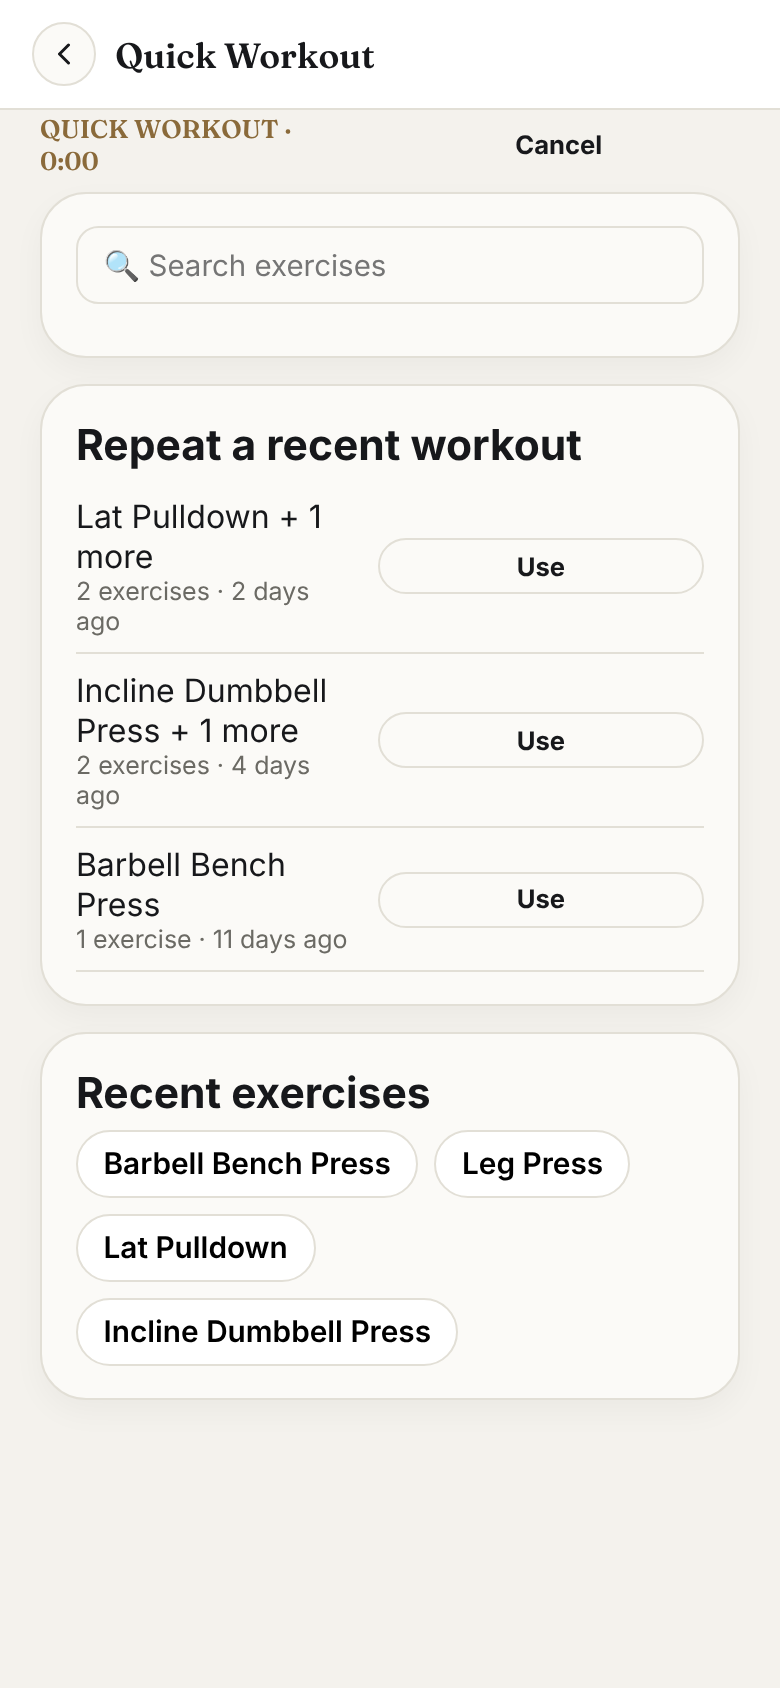
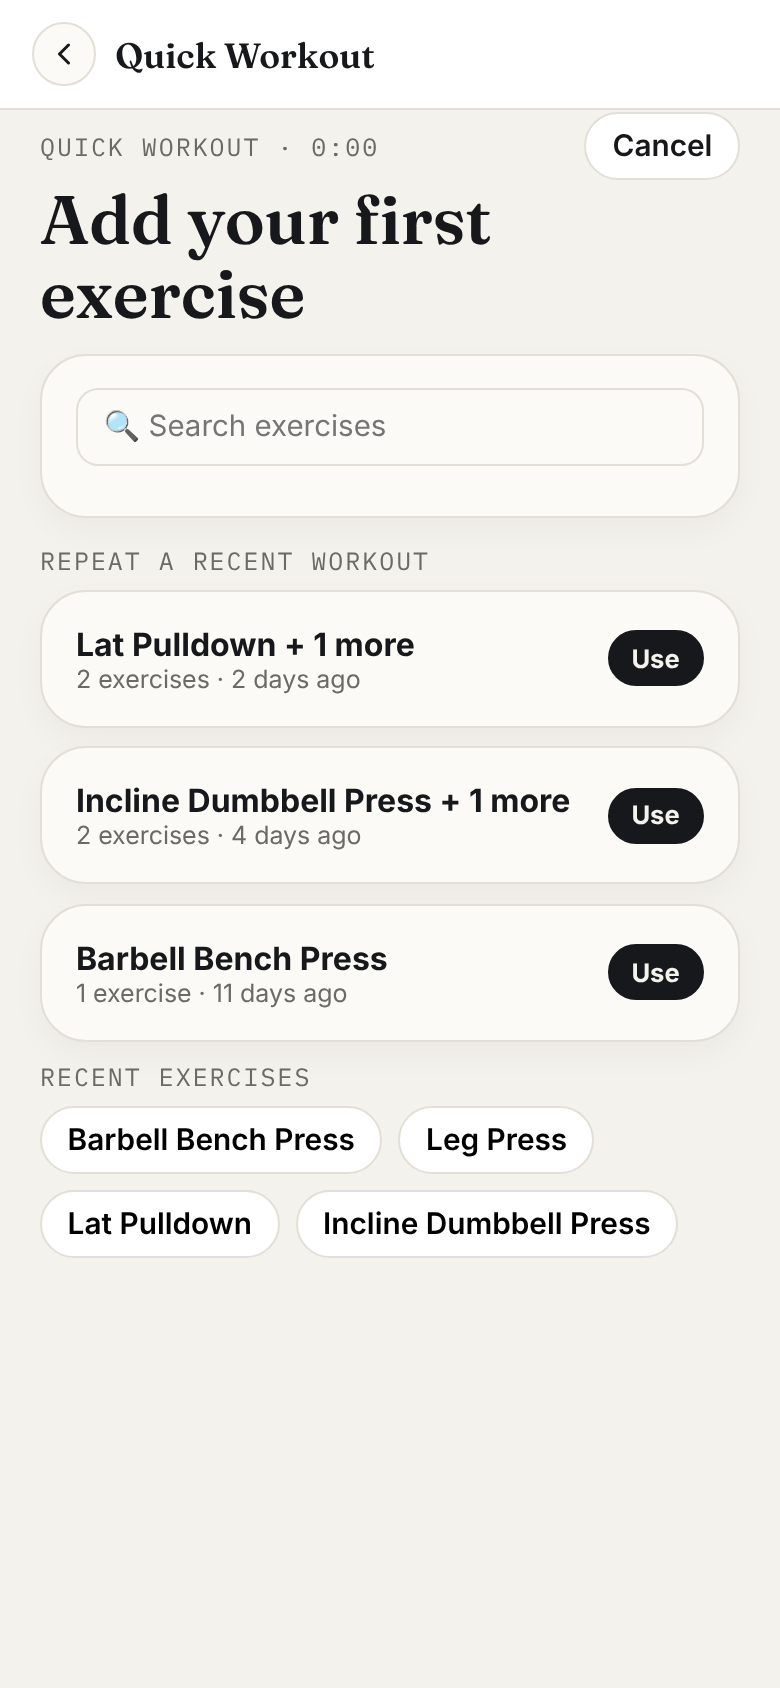
Fidelity pass: Section 3 (Workout) - quick-workout picker, overview, and in-session restyle to match the mockup
Quick-workout "add your first exercise" picker: mono caps header, serif
pagetitle, "Repeat a recent workout" rows as individual cards (was one
bordered-divider card) with a filled Use button, matching the mockup's
list convention already established for Plans in the prior commit.

Workout overview ("Today's workout"): same individual-card treatment
per Done/Up-next/Later row plus a real progress bar (done/total
exercises), and the Up-next row gets a 2px border to stand out, as in
the mockup. Added the mockup's "you can save this as a workout to
reuse, optional" banner (text only - the actual save/name/persist flow
remains a real gap, not attempted here).

Claude-Session: https://claude.ai/code/session_015L9cyNh1v2vMK9ZcFbmR4a

diff --git a/index.html b/index.html
@@ -9988,10 +9988,11 @@ function exercisePickerResultsHtml(query, actionAttr, actionLabel = '+') {
 
 function renderQuickWorkoutStart(panel) {
   panel.innerHTML = `
-    <div class="row" style="justify-content:space-between;align-items:center;margin-bottom:0.5rem;">
-      <div class="display" style="text-transform:uppercase;color:var(--accent);font-size:0.8rem;">Quick workout &middot; ${esc(liveWorkoutElapsedLabel())}</div>
-      <button class="btn btn-sm btn-ghost" id="qwCancelBtn">Cancel</button>
+    <div class="row" style="justify-content:space-between;align-items:center;flex-wrap:nowrap;">
+      <div class="mono small" style="text-transform:uppercase;letter-spacing:0.08em;color:var(--text-dim);min-width:0;">Quick workout &middot; ${esc(liveWorkoutElapsedLabel())}</div>
+      <span class="chip" id="qwCancelBtn" style="cursor:pointer;flex:none;min-width:0;">Cancel</span>
     </div>
+    <div class="pagetitle" style="margin:0.1rem 0 0.6rem;">Add your first exercise</div>
     <div class="card">
       <input class="input" id="qwSearch" placeholder="&#128269; Search exercises" value="${esc(quickWorkoutSearch)}">
       <div id="qwResultsArea" style="margin-top:0.6rem;"></div>
@@ -10012,19 +10013,17 @@ function renderQwSearchResults(panel) {
   if (resultsEl) resultsEl.innerHTML = q ? exercisePickerResultsHtml(q, 'data-qw-add') : '';
   const recentEl = $('#qwRecentArea', panel);
   if (recentEl) recentEl.innerHTML = !q ? `
-    <div class="card">
-      <h3 style="margin-top:0;">Repeat a recent workout</h3>
-      ${recentWorkoutDays().map((d) => `
-        <div class="row" style="justify-content:space-between;align-items:center;padding:0.5rem 0;border-bottom:1px solid var(--border);">
-          <div><div>${esc(d.exercises[0])}${d.exercises.length > 1 ? ` + ${d.exercises.length - 1} more` : ''}</div><div class="muted small">${d.exercises.length} exercise${d.exercises.length === 1 ? '' : 's'} &middot; ${d.daysAgo} day${d.daysAgo === 1 ? '' : 's'} ago</div></div>
-          <button class="btn btn-sm" data-qw-repeat="${esc(d.date)}">Use</button>
-        </div>`).join('') || `<p class="muted small">No past workouts yet.</p>`}
-    </div>
-    <div class="card">
-      <h3 style="margin-top:0;">Recent exercises</h3>
-      <div class="chip-row">
-        ${recentExerciseNames().map((n) => `<button class="chip" data-qw-add="${esc(n)}">${esc(n)}</button>`).join('') || `<p class="muted small">Nothing logged yet.</p>`}
-      </div>
+    <div class="mono small" style="text-transform:uppercase;letter-spacing:0.08em;color:var(--text-dim);margin:0.6rem 0 0.4rem;">Repeat a recent workout</div>
+    ${recentWorkoutDays().map((d) => `
+      <div class="card" style="margin-bottom:0.6rem;">
+        <div class="row" style="justify-content:space-between;align-items:center;flex-wrap:nowrap;">
+          <div style="min-width:0;"><strong>${esc(d.exercises[0])}${d.exercises.length > 1 ? ` + ${d.exercises.length - 1} more` : ''}</strong><div class="muted small">${d.exercises.length} exercise${d.exercises.length === 1 ? '' : 's'} &middot; ${d.daysAgo} day${d.daysAgo === 1 ? '' : 's'} ago</div></div>
+          <button class="btn btn-sm" style="flex:none;min-width:0;background:var(--text);color:var(--bg);border-color:var(--text);" data-qw-repeat="${esc(d.date)}">Use</button>
+        </div>
+      </div>`).join('') || `<p class="muted small">No past workouts yet.</p>`}
+    <div class="mono small" style="text-transform:uppercase;letter-spacing:0.08em;color:var(--text-dim);margin:0.6rem 0 0.4rem;">Recent exercises</div>
+    <div class="chip-row">
+      ${recentExerciseNames().map((n) => `<button class="chip" data-qw-add="${esc(n)}">${esc(n)}</button>`).join('') || `<p class="muted small">Nothing logged yet.</p>`}
     </div>` : '';
   $$('[data-qw-add]', panel).forEach((btn) => btn.addEventListener('click', () => quickWorkoutAddExercise(btn.dataset.qwAdd)));
   $$('[data-qw-repeat]', panel).forEach((btn) => btn.addEventListener('click', () => quickWorkoutRepeatDay(btn.dataset.qwRepeat)));
@@ -10261,40 +10260,47 @@ function renderWorkoutOverview(panel) {
   const later = notDone.slice(1);
 
   panel.innerHTML = `
-    <div class="row" style="justify-content:space-between;align-items:center;margin-bottom:0.5rem;">
-      <div class="display" style="text-transform:uppercase;color:var(--accent);font-size:0.8rem;">${esc(liveWorkoutSessionLabel())} &middot; ${esc(liveWorkoutElapsedLabel())}</div>
-      <button class="btn btn-sm" id="qwFinishBtn">Finish</button>
+    <div class="row" style="justify-content:space-between;align-items:center;flex-wrap:nowrap;">
+      <div class="mono small" style="text-transform:uppercase;letter-spacing:0.08em;color:var(--text-dim);min-width:0;">${esc(liveWorkoutSessionLabel())} &middot; ${esc(liveWorkoutElapsedLabel())}</div>
+      <button class="btn btn-sm btn-primary" style="flex:none;min-width:0;" id="qwFinishBtn">Finish</button>
     </div>
-    <div class="card">
-      <h3 style="margin-top:0;">Today's workout</h3>
-      ${done.length ? `<div class="muted small" style="text-transform:uppercase;letter-spacing:0.05em;margin-bottom:0.3rem;">Done</div>` : ''}
-      ${done.map((ex) => `
-        <div class="row" style="align-items:center;padding:0.5rem 0;border-bottom:1px solid var(--border);cursor:pointer;opacity:0.65;" data-wo-open="${esc(ex.name)}">
+    <div class="pagetitle" style="margin:0.1rem 0 0.5rem;">Today's workout</div>
+    <div style="height:0.4rem;background:var(--surface-3);border-radius:0.2rem;overflow:hidden;margin-bottom:0.8rem;">
+      <div style="width:${exercises.length ? Math.round((done.length / exercises.length) * 100) : 0}%;height:100%;background:var(--success);"></div>
+    </div>
+    ${done.length ? `<div class="mono small" style="text-transform:uppercase;letter-spacing:0.08em;color:var(--text-dim);margin-bottom:0.4rem;">Done</div>` : ''}
+    ${done.map((ex) => `
+      <div class="card" style="margin-bottom:0.6rem;opacity:0.7;cursor:pointer;" data-wo-open="${esc(ex.name)}">
+        <div class="row" style="align-items:center;flex-wrap:nowrap;">
           ${exerciseRingHtml(ex)}
-          <div style="flex:1;min-width:0;">${esc(ex.name)}</div>
-          <span class="mono muted small" style="flex:none;min-width:0;">${esc(exerciseSetSummaryLabel(ex))}</span>
-        </div>`).join('')}
-      ${current ? `
-        <div class="muted small" style="text-transform:uppercase;letter-spacing:0.05em;margin:0.6rem 0 0.3rem;">Up next</div>
-        <div class="row" style="align-items:center;padding:0.5rem 0;border-bottom:1px solid var(--border);">
+          <div style="flex:1;min-width:0;"><strong>${esc(ex.name)}</strong><div class="muted small">${esc(exerciseSetSummaryLabel(ex))}</div></div>
+        </div>
+      </div>`).join('')}
+    ${current ? `
+      <div class="mono small" style="text-transform:uppercase;letter-spacing:0.08em;color:var(--text-dim);margin-bottom:0.4rem;">Up next</div>
+      <div class="card" style="margin-bottom:0.6rem;border:2px solid var(--text);">
+        <div class="row" style="align-items:center;flex-wrap:nowrap;">
           ${exerciseRingHtml(current)}
           <div style="flex:1;min-width:0;">
             <div><strong>${esc(current.name)}</strong></div>
             <div class="muted small">${goalLineForOverview(current)}</div>
           </div>
           <button class="btn btn-sm btn-primary" style="flex:none;min-width:0;" data-wo-open="${esc(current.name)}">Open</button>
-        </div>` : ''}
-      ${later.length ? `<div class="muted small" style="text-transform:uppercase;letter-spacing:0.05em;margin:0.6rem 0 0.3rem;">Later</div>` : ''}
-      ${later.map((ex) => `
-        <div class="row" style="align-items:center;padding:0.5rem 0;border-bottom:1px solid var(--border);cursor:pointer;" data-wo-open="${esc(ex.name)}">
+        </div>
+      </div>` : ''}
+    ${later.length ? `<div class="mono small" style="text-transform:uppercase;letter-spacing:0.08em;color:var(--text-dim);margin-bottom:0.4rem;">Later</div>` : ''}
+    ${later.map((ex) => `
+      <div class="card" style="margin-bottom:0.6rem;cursor:pointer;" data-wo-open="${esc(ex.name)}">
+        <div class="row" style="align-items:center;flex-wrap:nowrap;">
           ${exerciseRingHtml(ex)}
           <div style="flex:1;min-width:0;">
             <div>${esc(ex.name)}</div>
             <div class="muted small">${ex.prescribedSets ? `${ex.setsLogged.length}/${ex.prescribedSets} sets` : `${ex.setsLogged.length} set${ex.setsLogged.length === 1 ? '' : 's'} logged`}${isExerciseStalled(ex.name) ? ` &middot; stalled 4+ sessions` : ''}</div>
           </div>
-        </div>`).join('')}
-      <button class="btn btn-sm btn-ghost" id="qwAddMoreBtn" style="margin-top:0.6rem;">+ Add exercise</button>
-    </div>
+        </div>
+      </div>`).join('')}
+    <button class="btn btn-sm btn-ghost" id="qwAddMoreBtn" style="width:100%;margin-bottom:0.6rem;">+ Add exercise</button>
+    <div class="banner">When you finish, you can save this as a workout to reuse. Optional.</div>
   `;
   $('#qwFinishBtn').addEventListener('click', finishLiveWorkout);
   $('#qwAddMoreBtn').addEventListener('click', () => { liveWorkoutScreen = 'start'; renderLiftsTab(); });
